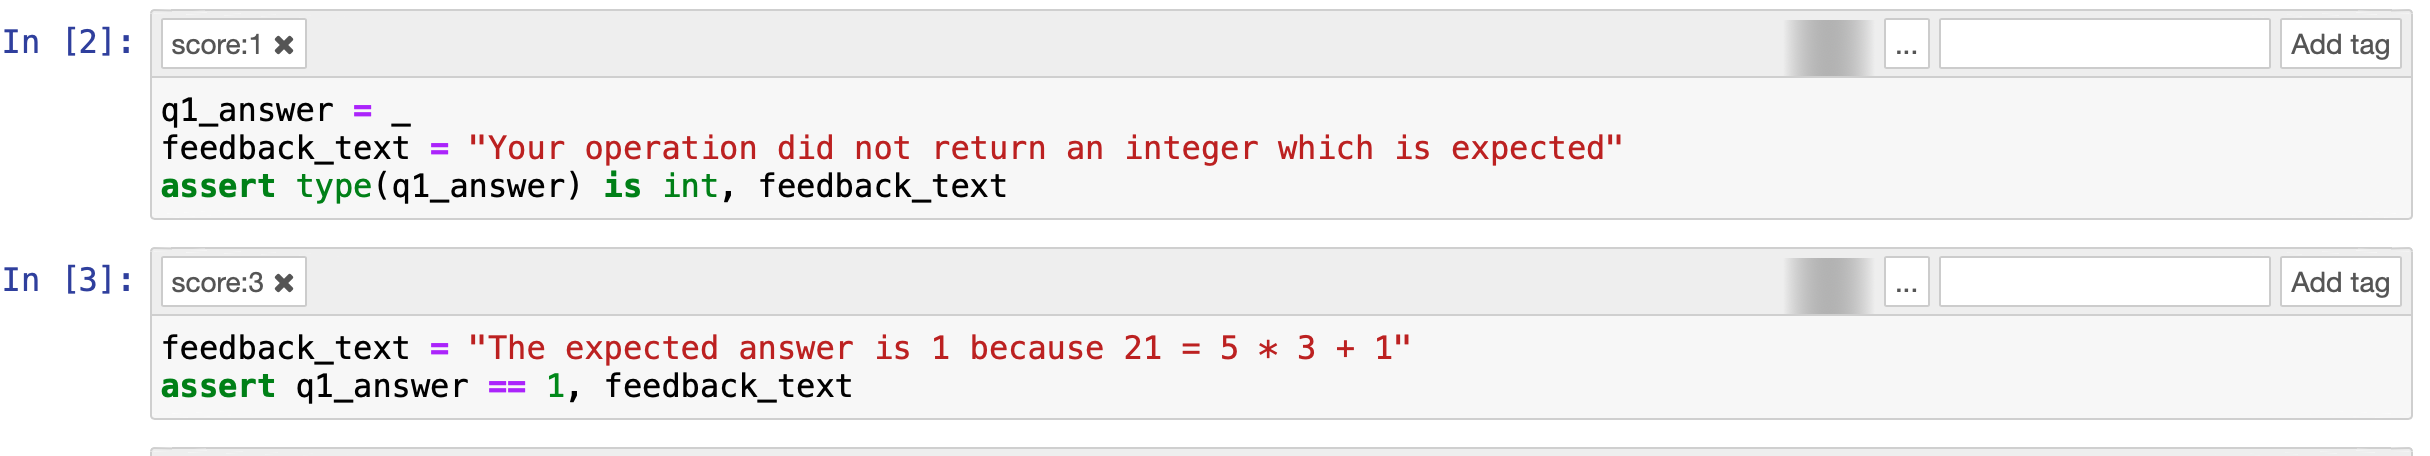
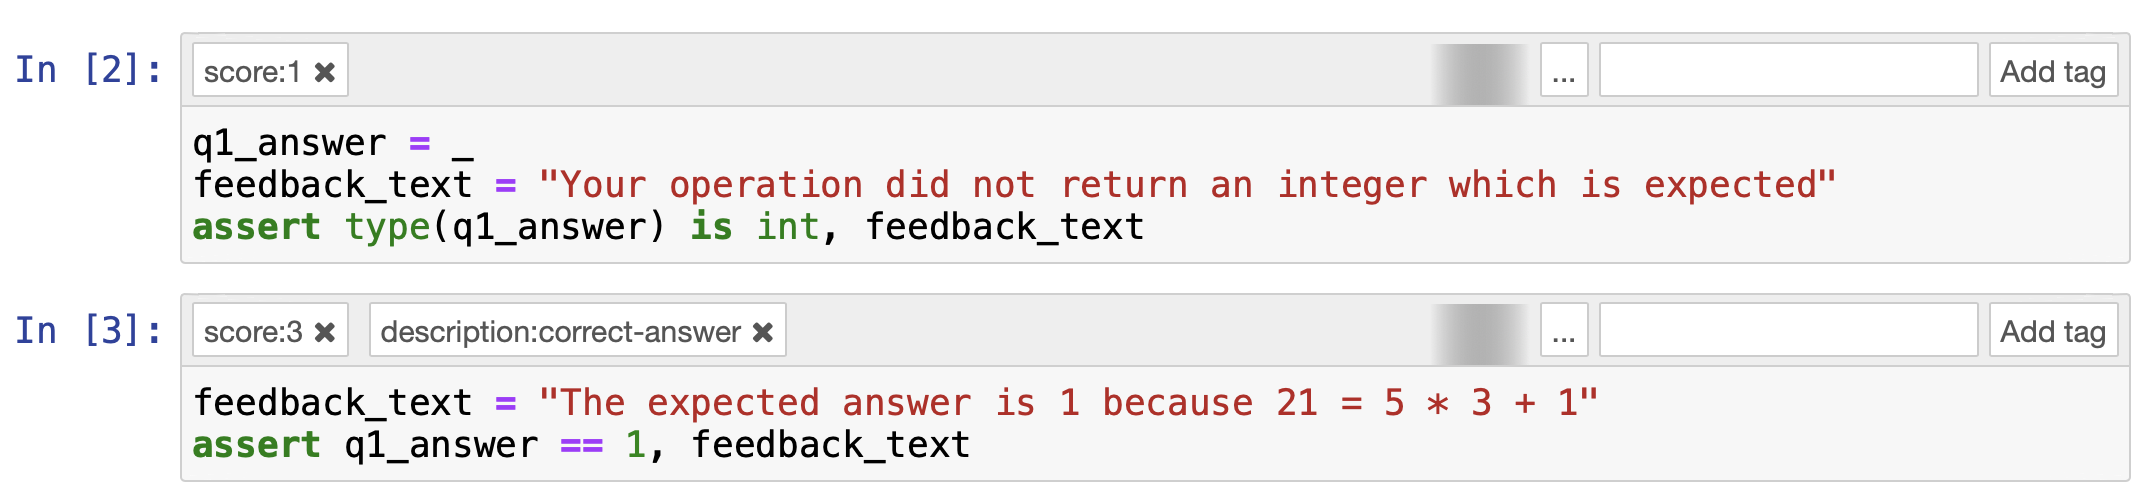
Add ability to tag descriptions (#42)
* Write get description function.

* Add ability to write description.

* Add tests for description.

* Add description tags to tutorial.

* Add description tag to how to.

* Run black.

* Fix type for get_description.

Changed region(s): [[0.0, 0.2149, 0.9981, 0.9518], [0.0, 0.0, 0.9981, 0.2456], [0.0624, 0.9825, 0.0936, 1.0]]

diff --git a/src/nbchkr/utils/__init__.py b/src/nbchkr/utils/__init__.py
@@ -18,6 +18,7 @@ SOLUTION_REPL = """### BEGIN SOLUTION
 UNIVERSAL_REGEX = re.compile(r".", re.DOTALL)
 ANSWER_TAG_REGEX = r"answer:*"
 SCORE_REGEX = re.compile(r"score:(\d+)")
+DESCRIPTION_REGEX = re.compile(r"description:(.*)")
 
 
 def read(nb_path: Union[pathlib.Path, str], as_version: int = 4) -> dict:
@@ -144,6 +145,26 @@ def get_score(cell: dict, score_regex_pattern=None) -> int:
     return 0
 
 
+def get_description(
+    cell: dict, description_regex_pattern=None, tag_seperator: str = "|"
+) -> str:
+    """
+    Given a `cell` of a notebook, return the description as defined by the
+    `description_regex_pattern`.
+    """
+    if description_regex_pattern is None:
+        description_regex_pattern = DESCRIPTION_REGEX
+    tags = get_tags(cell, tag_seperator=tag_seperator)
+    if tags != "":
+        for tag in tags.split(tag_seperator):
+            search = re.search(pattern=description_regex_pattern, string=tag)
+            try:
+                return search.group(1).replace("-", " ").capitalize()  # type: ignore
+            except AttributeError:
+                pass
+    return ""
+
+
 def check(
     nb_node: dict,
     timeout: int = 600,
@@ -184,6 +205,11 @@ def check(
         # TODO Use the walrus operator here.
         if get_score(cell, score_regex_pattern=score_regex_pattern) > 0:
             score = get_score(cell)
+            description = get_description(cell)
+            if description != "":
+                feedback_md += f"""
+### {description}
+"""
             maximum_score += score
             try:
                 outputs = cell["outputs"][0]

diff --git a/tests/test_utility_functions.py b/tests/test_utility_functions.py
@@ -29,7 +29,27 @@ def test_get_empty_string_when_there_are_no_tags():
 
 
 def test_get_score():
-    cell = {"metadata": {"tags": ["score:40", "mark_23"]}}
+    cell = {"metadata": {"tags": ["score:40", "description:correct-answer", "mark_23"]}}
     assert nbchkr.utils.get_score(cell=cell) == 40
     assert nbchkr.utils.get_score(cell=cell, score_regex_pattern=r"mark\_(\d)") == 2
     assert nbchkr.utils.get_score(cell=cell, score_regex_pattern=r"mark\_(\d+)") == 23
+
+
+def test_get_description():
+    cell = {"metadata": {"tags": ["score:40", "description:correct-answer", "mark_23"]}}
+    assert nbchkr.utils.get_description(cell=cell) == "Correct answer"
+    assert (
+        nbchkr.utils.get_description(cell=cell, description_regex_pattern=r"mark\_(\d)")
+        == "2"
+    )
+    assert (
+        nbchkr.utils.get_description(
+            cell=cell, description_regex_pattern=r"mark\_(\d+)"
+        )
+        == "23"
+    )
+
+
+def test_get_description_when_last_tag():
+    cell = {"metadata": {"tags": ["score:40", "description:correct-answer"]}}
+    assert nbchkr.utils.get_description(cell=cell) == "Correct answer"

diff --git a/tests/test_check.py b/tests/test_check.py
@@ -49,13 +49,19 @@ def test_check_with_no_errors_for_original_source():
 
 ## answer:q1
 
+### Correct answer
+
 3 / 3
 
 ---
 
 ## answer:q2
 
+### Has docstring
+
 2 / 2
+
+### Correct answer for n up until 10
 
 5 / 5
 """
@@ -76,6 +82,8 @@ def test_check_with_no_errors_for_test_submission():
 
 ## answer:q1
 
+### Correct answer
+
 That is not the correct answer
 
 0 / 3
@@ -84,7 +92,11 @@ That is not the correct answer
 
 ## answer:q2
 
+### Has docstring
+
 2 / 2
+
+### Correct answer for n up until 10
 
 You function did not give the correct score for n=1
 
@@ -107,6 +119,8 @@ def test_check_with_no_errors_for_test_submission_with_missing_tags():
 
 ## answer:q1
 
+### Correct answer
+
 That is not the correct answer
 
 0 / 3
@@ -115,7 +129,11 @@ That is not the correct answer
 
 ## answer:q2
 
+### Has docstring
+
 2 / 2
+
+### Correct answer for n up until 10
 
 You function did not give the correct score for n=1
 

diff --git a/docs/tutorial/index.rst b/docs/tutorial/index.rst
@@ -83,7 +83,7 @@ delimiters for what should not be shown to students::
 We can run that cell if we want to keep an eye on the answer.
 
 An important step at this stage is to let :code:`nbchkr` know that this is an
-answer cell, we do this by adding `answer:q1` to tags.
+answer cell, we do this by adding :code:`answer:q1` to tags.
 
 Everything should now look like the following:
 
@@ -108,6 +108,9 @@ by creating a new cell and writing::
     assert q1_answer == 1, feedback_text
 
 This will be worth 3 points so let us add the tag: :code:`score:3`.
+
+We can choose to add a description to our check which will then appear in the
+feedback. We do this by adding the tag: :code:`description:correct-answer`.
 
 Everything should now look like the following:
 
@@ -171,13 +174,15 @@ Whilst we've decided to write quite a lot of feedback with details about writing
 docstrings we are only going to score this part of the answer 1 point so we use
 the tag: `score:1`.
 
+We will add the description tag: :code:`description:presence-of-docstring`.
+
 We will also include specific checks for the actual answer::
 
     assert get_remainder(5, 3) == 2, "Incorrect answer for m=5, n=3: 5 mod 2 = 1 because 5 = 3 * 1 + 2"
     assert get_remainder(34, 21) == 13, "Incorrect answer for m=34, n=21: 34 mod 21 = 13 because 34 = 21 * 1 + 13"
     assert get_remainder(1000, 10) == 0, "Incorrect answer for m=1000, n=10: 1000 mod 10 = 0 because 1000 = 10 * 100 + 0"
 
-IF you would like to see a final version of this notebook you can find it here.
+For this we will use the description tag: :code:`description:correct-answer`.
 
 IF you would like to see a final version of this notebook
 you can find it :download:`here <./assignment/main.ipynb>`.

diff --git a/docs/howto/write_an_assignment.rst b/docs/howto/write_an_assignment.rst
@@ -42,6 +42,12 @@ Add the :code:`score:<integer>` tag to the cell. The :code:`<integer>` is the
 value associated with this specific check. If the :code:`<condition>` is met
 then the :code:`<integer>` value will be added to the total score of a student.
 
+Optionally, you can also add the :code:`description:<string>` tag to the cell.
+This will add the :code:`<string>` to the feedback for that specific check. Note
+that spaces should be replaced with :code:`-` which will automatically be
+replaced in the feedback. For example: :code:`description:correct-answer` will
+appear as :code:`### Correct answer` in the feedback.
+
 Note that it is possible to write multiple checks for a given answer. This can
 be done so as to programmatically offer varying levels of feedback for specific
 parts of the task.

diff --git a/docs/tutorial/assignment/submissions/assignment_01.ipynb-feedback.md b/docs/tutorial/assignment/submissions/assignment_01.ipynb-feedback.md
@@ -5,6 +5,8 @@
 
 1 / 1
 
+### Correct answer
+
 The expected answer is 1 because 21 = 5 * 3 + 1
 
 0 / 3
@@ -13,7 +15,11 @@ The expected answer is 1 because 21 = 5 * 3 + 1
 
 ## answer:q2
 
+### Presence of docstring
+
 1 / 1
+
+### Correct answer
 
 Incorrect answer for m=5, n=3: 5 mod 2 = 1 because 5 = 3 * 1 + 2
 

diff --git a/docs/tutorial/assignment/submissions/assignment_02.ipynb-feedback.md b/docs/tutorial/assignment/submissions/assignment_02.ipynb-feedback.md
@@ -5,11 +5,15 @@
 
 1 / 1
 
+### Correct answer
+
 3 / 3
 
 ---
 
 ## answer:q2
+
+### Presence of docstring
 
 You did not include a docstring. This is important to help document your code. 
 
@@ -32,5 +36,7 @@ ignored by Python so cannot be accessed in the same way.
 
 
 0 / 1
+
+### Correct answer
 
 6 / 6

diff --git a/docs/tutorial/assignment/submissions/assignment_03.ipynb-feedback.md b/docs/tutorial/assignment/submissions/assignment_03.ipynb-feedback.md
@@ -5,15 +5,21 @@
 
 1 / 1
 
+### Correct answer
+
 3 / 3
 
 ---
 
 ## answer:q2
 
+### Presence of docstring
+
 name 'get_remainder' is not defined
 
 0 / 1
+
+### Correct answer
 
 name 'get_remainder' is not defined
 
